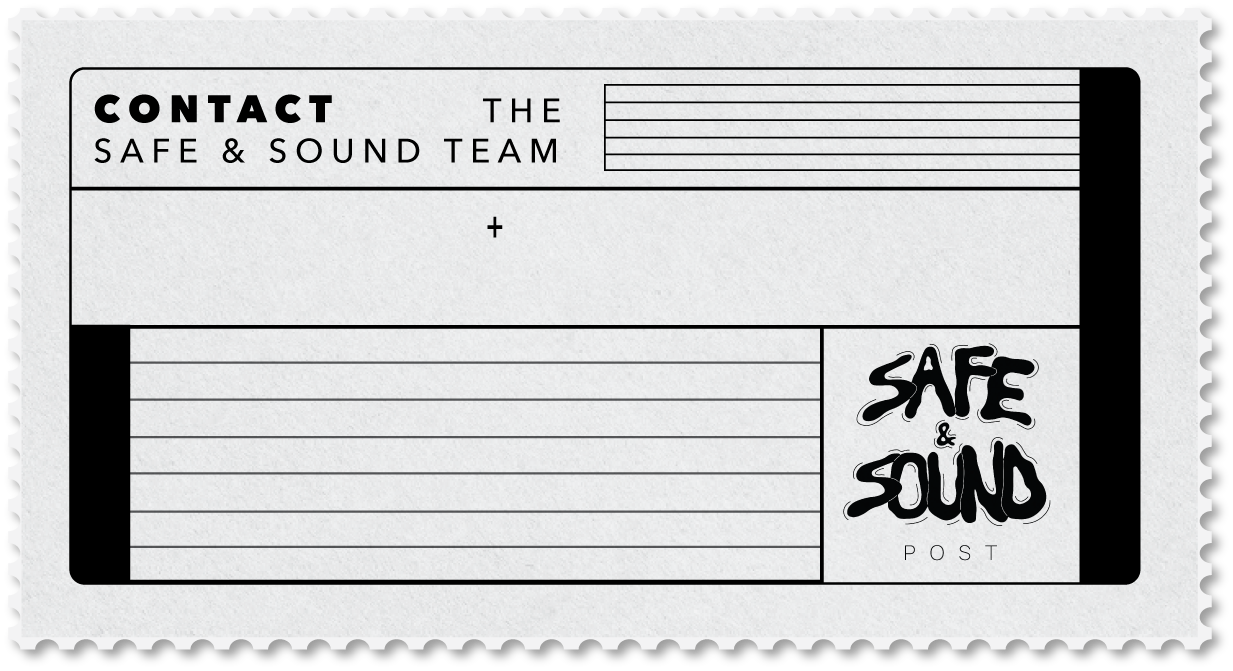
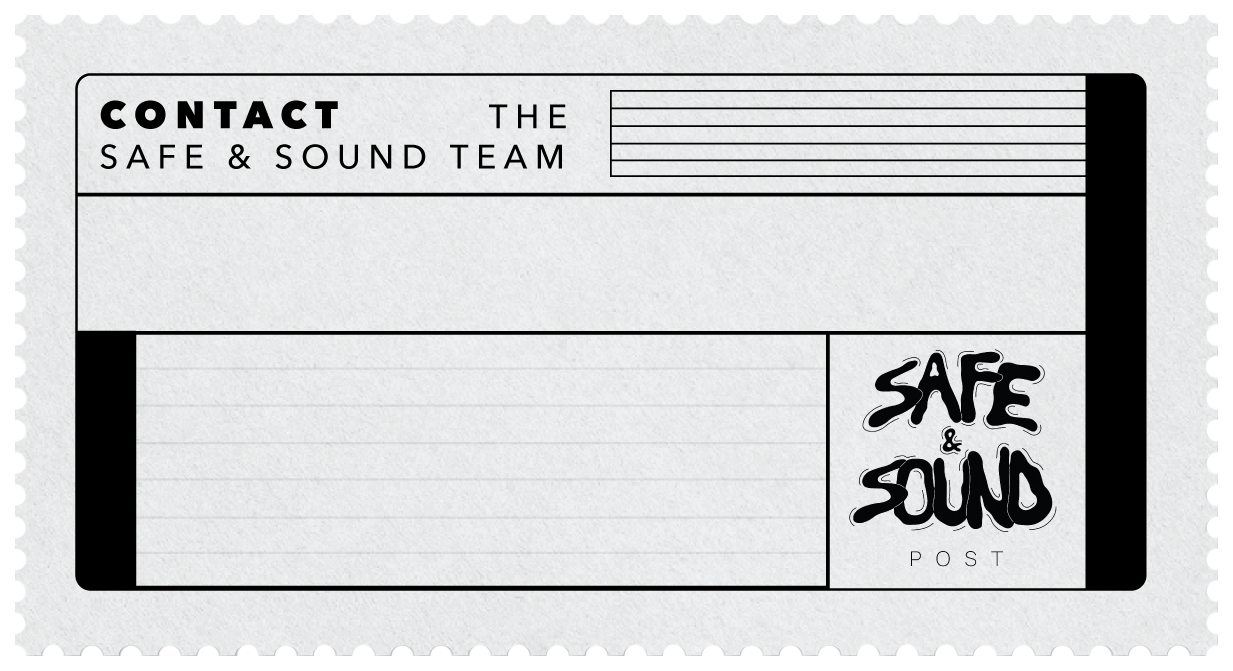
April Changes Part 2 Requested by Jesse
Change log:
- Change the website logo to the black one. Or circle one.
- In the contact form, when i start typing in an email can the plus disappear as well, it kind of blocks what im typing. Or just no plus?
- Have top logo and menu 3 lines scroll with you at the top.
- Basically when you type a message it gets hidden behind the lines. Lmk if you have an idea to smooth this out?
- I think the opacity is too high when filling in text in the contact form. If we sent a version with less bold lines, would that mess up programming at all?

Changed region(s): [[0.0308, 0.0894, 0.9246, 0.8942], [0.0, 0.0298, 1.0, 0.9836], [0.4006, 0.3279, 0.4315, 0.3577]]

diff --git a/src/components/home/Contact.jsx b/src/components/home/Contact.jsx
@@ -102,16 +102,16 @@ export default function Contact() {
                 className="relative z-20 aspect-video h-fit w-full bg-contain bg-center bg-no-repeat text-xs font-semibold text-black md:text-4xl"
                 style={{ backgroundImage: `url(${contactForm})` }}
             >
-                <div className="absolute left-6 top-[31%] flex flex-col gap-0 md:left-[80px] md:gap-6">
-                    <div className="flex gap-0 md:gap-20">
+                <div className="absolute left-6 top-[31%] flex flex-col gap-0 md:left-[90px] md:gap-6">
+                    <div className="flex gap-0 md:gap-5">
                         <input
-                            className="w-[37%] bg-transparent uppercase tracking-widest placeholder:text-gray-600"
+                            className="w-[43%] bg-transparent uppercase tracking-widest placeholder:text-gray-600 md:w-[50%]"
                             placeholder="[  N A M E  ]"
                             value={name}
                             onInput={(e) => setName(e.target.value)}
                         />
                         <input
-                            className="w-[50%] bg-transparent uppercase tracking-widest placeholder:px-16 placeholder:text-gray-600"
+                            className="w-[43%] bg-transparent uppercase tracking-widest placeholder:text-gray-600 md:w-[50%]"
                             type="email"
                             placeholder="[  E M A I L  ]"
                             value={email}
@@ -119,16 +119,16 @@ export default function Contact() {
                         />
                     </div>
                     <input
-                        className="w-[88%] bg-transparent uppercase tracking-widest placeholder:text-gray-600"
+                        className="w-[85%] bg-transparent uppercase tracking-widest placeholder:text-gray-600 md:w-[88%]"
                         type="tel"
                         placeholder="[  P H O N E   N U M B E R  ]"
                         value={phone}
                         onInput={(e) => setPhone(e.target.value)}
                     />
                 </div>
-                <div className="absolute left-10 top-[49%] flex h-[8em] w-[54%] flex-col gap-6 text-[.45em] leading-[1.85em] md:left-[140px] md:text-xl">
+                <div className="absolute left-[12%] top-[50%] flex h-[8em] w-[54%] flex-col gap-6 text-[.45em] md:left-[150px] md:top-[50.3%] md:text-xl">
                     <textarea
-                        className="h-full resize-none bg-transparent tracking-widest placeholder:text-gray-600"
+                        className="h-full resize-none bg-transparent leading-[0.65rem] tracking-widest placeholder:text-gray-600 md:leading-[2.3rem]"
                         placeholder="[ WHAT CAN WE HELP YOU WITH? ]"
                         value={message}
                         onInput={(e) => setMessage(e.target.value)}
@@ -137,7 +137,7 @@ export default function Contact() {
             </div>
             {!isSubmitted && (
                 <button
-                    className="btn btn-xs absolute right-[44%] top-[59.5%] z-30 h-[1em] w-[12em] uppercase tracking-[.2em] md:btn-sm max-md:text-[.55em] md:right-[17%] md:top-[72.5%]"
+                    className="btn btn-xs absolute right-[44%] top-[59.5%] z-30 h-[1em] w-[12em] uppercase tracking-[.2em] md:btn-sm max-md:text-[.55em] md:right-[15.5%] md:top-[72.5%]"
                     src={contactForm}
                     onClick={submitForm}
                 >

diff --git a/src/components/NavBar.jsx b/src/components/NavBar.jsx
@@ -1,5 +1,6 @@
 import logo from "/images/logo.png";
 import logoMobile from "/images/logo-mobile.png";
+// import logoCircle from "/images/ss-logo-circle.png";
 import Link from "./Link";
 import PropTypes from "prop-types";
 import awardsSymbol from "../assets/images/symbols/awards-symbol.png";
@@ -11,7 +12,7 @@ export default function NavBar({ currentSection }) {
         <nav className="relative z-50 m-0 text-base font-bold text-primary max-md:drawer max-md:drawer-end md:drawer-open md:fixed md:m-3 md:mt-8 md:text-2xl">
             <input id="side-menu" type="checkbox" className="drawer-toggle" />
 
-            <div className="mx-auto py-3 flex w-full flex-row-reverse justify-between md:hidden">
+            <div className="fixed mx-auto flex w-full flex-row-reverse justify-between bg-black py-3 pl-3 md:hidden">
                 <label
                     htmlFor="side-menu"
                     className="btn btn-ghost btn-primary drawer-button my-auto"
@@ -30,7 +31,7 @@ export default function NavBar({ currentSection }) {
                 <ul className="flex flex-col gap-3 tracking-widest max-md:h-full max-md:bg-black max-md:p-5">
                     <li className="select-none max-md:h-fit">
                         <img
-                            className="max-md:h-44"
+                            className="max-md:h-44" // aspect-square w-[299px] max-md:w-[200px]
                             src={logo}
                             alt="safe & sound logo"
                             draggable="false"
@@ -83,10 +84,10 @@ export default function NavBar({ currentSection }) {
                             href="#awards"
                             currentSection={currentSection}
                         >
-                            awards  
+                            awards
                         </Link>
                         <img
-                            className="h-[60%] aspect-[2.3/1]"
+                            className="aspect-[2.3/1] h-[60%]"
                             src={awardsSymbol}
                         />
                     </li>

diff --git a/index.html b/index.html
@@ -2,11 +2,11 @@
 <html lang="en">
     <head>
         <meta charset="UTF-8" />
-        <link rel="icon" type="image/svg+xml" href="/images/logo.png" />
+        <link rel="icon" type="image/svg+xml" href="/images/ss-logo-circle.png" />
         <meta name="viewport" content="width=device-width, initial-scale=1.0" />
         <title>Safe & Sound</title>
     </head>
-    <body class="min-h-screen w-screen">
+    <body class="min-h-screen w-fit">
         <div class="h-full w-full overflow-x-hidden" id="root"></div>
         <script type="module" src="/src/main.jsx"></script>
     </body>

diff --git a/src/pages/Banner.jsx b/src/pages/Banner.jsx
@@ -13,7 +13,7 @@ export default function Banner() {
     return (
         <section
             id="demo-reel"
-            className="relative h-2/5 min-h-48 w-full bg-[#ffffff1f] bg-cover bg-center hover:bg-blend-color-burn md:max-h-[40%] md:min-h-[470px] md:bg-left-top"
+            className="relative mt-[72px] h-2/5 min-h-48 w-full bg-[#ffffff1f] bg-cover bg-center hover:bg-blend-color-burn md:mt-0 md:max-h-[40%] md:min-h-[470px] md:bg-left-top"
             style={{ backgroundImage: `url(${banner})` }}
         >
             <div className="absolute inset-0 flex items-center justify-center">
@@ -130,7 +130,7 @@ export default function Banner() {
             </div>
 
             <img
-                className="top-[84 %] absolute right-0 max-md:w-2/4 md:top-[87%]"
+                className="absolute right-0 top-[84.5%] max-md:w-2/4 md:top-[87%]"
                 src={topDecorator}
             />
         </section>